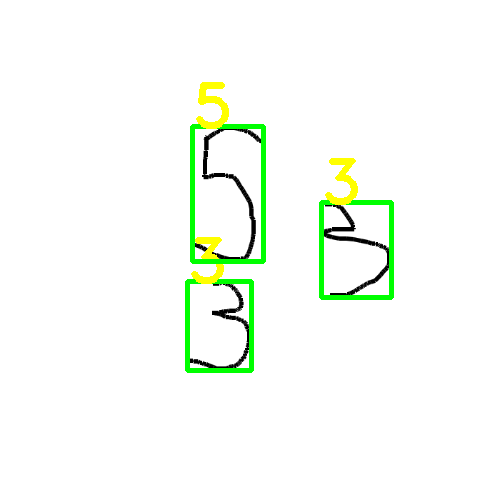
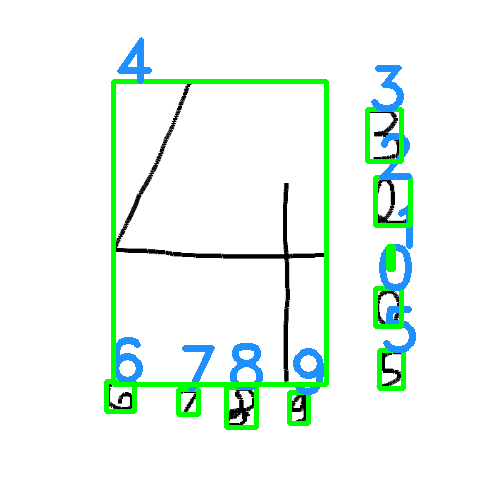
Changed buttons to material design and color of predicted text to blue

Changed region(s): [[0.21, 0.06, 0.84, 0.87]]

diff --git a/templates/WebApp/home.html b/templates/WebApp/home.html
@@ -3,7 +3,11 @@
 <head>
     <meta charset="UTF-8">
     <title>Welcome to Digit Classifier</title>
-<script
+    <link rel="stylesheet" href="https://fonts.googleapis.com/icon?family=Material+Icons">
+    <link rel="stylesheet" href="https://code.getmdl.io/1.3.0/material.indigo-pink.min.css">
+    <script defer src="https://code.getmdl.io/1.3.0/material.min.js"></script>
+
+    <script
   src="https://code.jquery.com/jquery-3.2.1.min.js"
   integrity="sha256-hwg4gsxgFZhOsEEamdOYGBf13FyQuiTwlAQgxVSNgt4="
   crossorigin="anonymous"></script>
@@ -144,10 +148,12 @@
         }
     }
     </script>
-<input type="button" value="save" id="btn" size="30" onclick="save()" >
-<input type="button" value="clear" id="clr" size="23" onclick="erase()" >
+<input type="button" value="s" class="mdl-button mdl-js-button mdl-button--fab mdl-button--colored" id="btn" size="15"
+       onclick="save()">
+<input type="button" class="mdl-button mdl-js-button mdl-button--fab mdl-button--colored" value="c" id="clr" size="15"
+       onclick="erase()">
 
-<img id="canvasimg" style="position:absolute;top:10%;left:52%;" style="display:none;">
+<img id="canvasimg" style="display:none;">
 
 </body>
 </html>

diff --git a/WebApp/views.py b/WebApp/views.py
@@ -1,29 +1,24 @@
-from django.shortcuts import render
-from  django.http import HttpResponse
-# Create your views here.
-from django.views.decorators.csrf import csrf_exempt
-import tensorflow as tf
-import templates.WebApp
-
-import keras
-import numpy as np
-import cv2
-from PIL import Image
-from io import StringIO
 import base64
 from binascii import a2b_base64
+
+import cv2
+import keras
+import numpy as np
+import tensorflow as tf
+from  django.http import HttpResponse
+from django.shortcuts import render
+from django.views.decorators.csrf import csrf_exempt
+
 
 #load pretrained model
 
 def data_uri_to_cv2_img(uri):
         encoded_data = uri.split(',')[1]
-        # print("č")
         # img = base64.b64decode(uri)
         # nparr = np.fromstring(img, np.uint8)
         # img_np = cv2.imdecode(nparr, cv2.IMREAD_COLOR)  # cv2.IMREAD_COLOR in OpenCV 3.1
         data = encoded_data
         binary_data = a2b_base64(data)
-
         fd = open('imagelol.png', 'wb')
         fd.write(binary_data)
         fd.close()
@@ -88,9 +83,7 @@ def predict(data):
             pt1 = int(rect[1] + rect[3] // 2 - leng // 2)
             pt2 = int(rect[0] + rect[2] // 2 - leng // 2)
             roi = im_th[pt1:pt1 + leng, pt2:pt2 + leng]    # Make the rectangular region around the digit
-            # Resize the image
-           # roi = im_th[rect[1]:rect[1]+rect[3],rect[0]:rect[0]+rect[2]]
-           # currim = im[y:y + h, x:x + w]
+
             print(roi.shape)
             x,y= roi.shape
             #if( x>= 28 & y>= 28):
@@ -99,7 +92,7 @@ def predict(data):
 
             #predict rectangle
             nbr = cnn_predict(roi)
-            cv2.putText(im, str(int(nbr[0])), (rect[0], rect[1]),cv2.FONT_HERSHEY_DUPLEX, 2, (0, 255, 255), 3)
+            cv2.putText(im, str(int(nbr[0])), (rect[0], rect[1]), cv2.FONT_HERSHEY_DUPLEX, 2, (255, 144, 30), 3)
 
         cv2.imwrite("hello.png",im)
         with open("hello.png", "rb") as image_file:
@@ -125,9 +118,4 @@ def classify(request):
 
 
     return HttpResponse(classifiedData)
-
-
-
-
-
 
